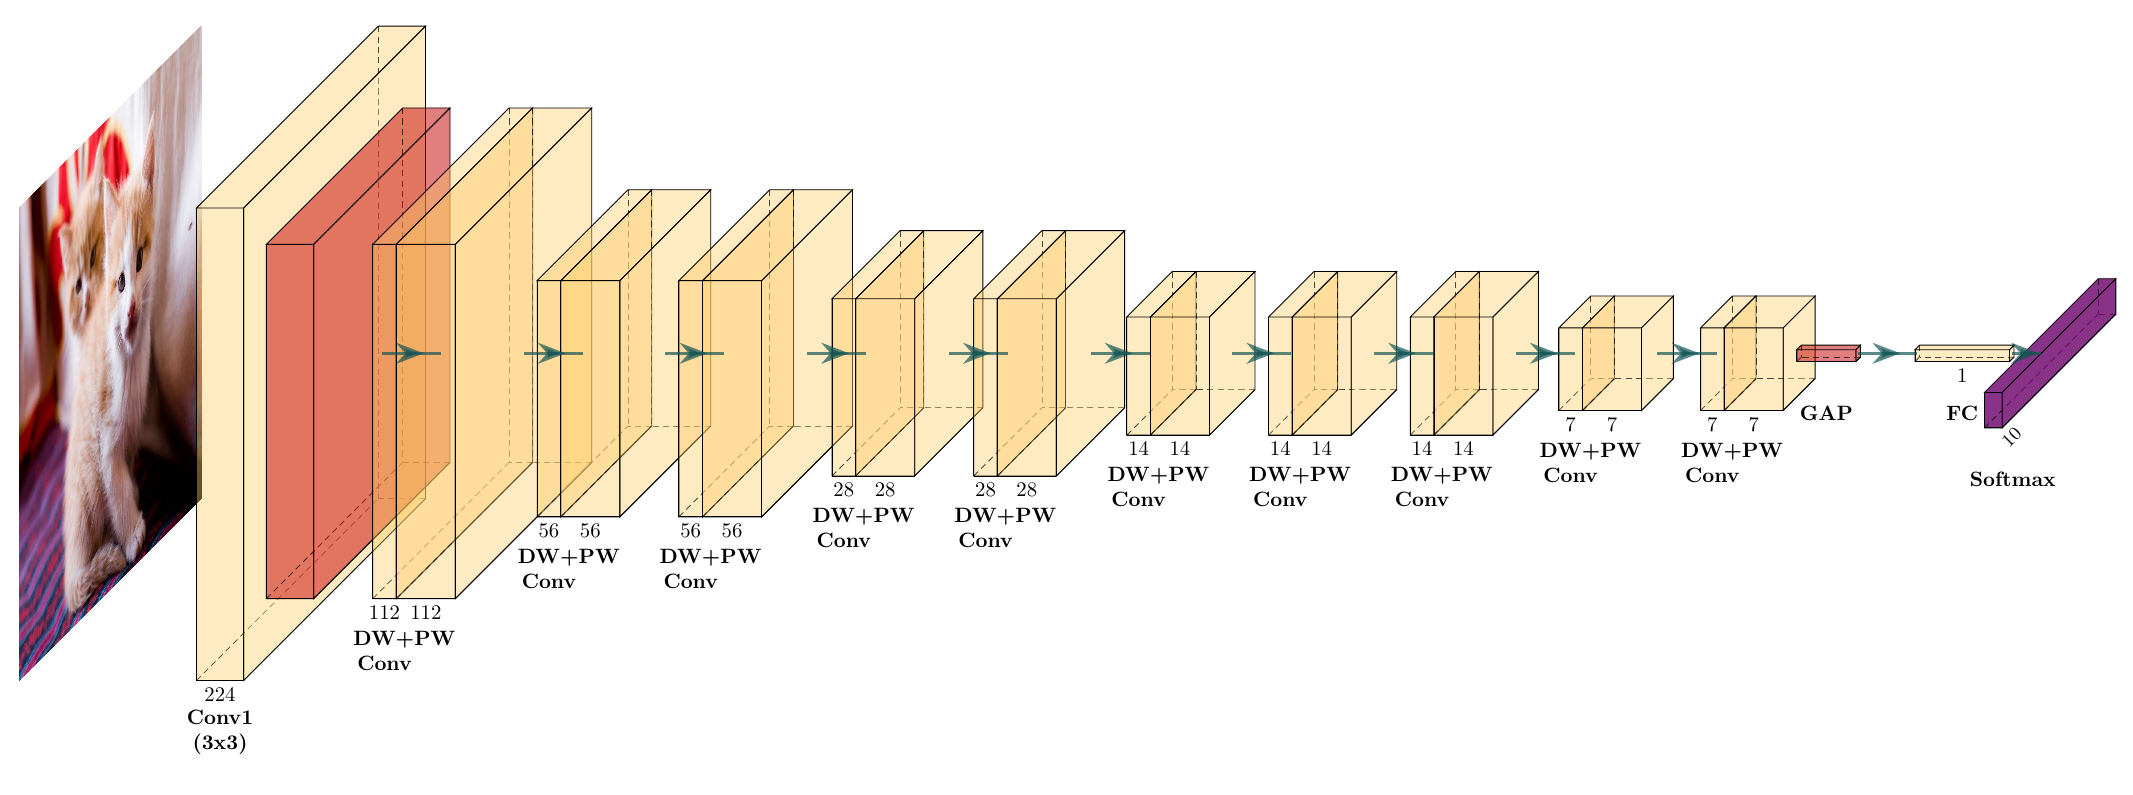
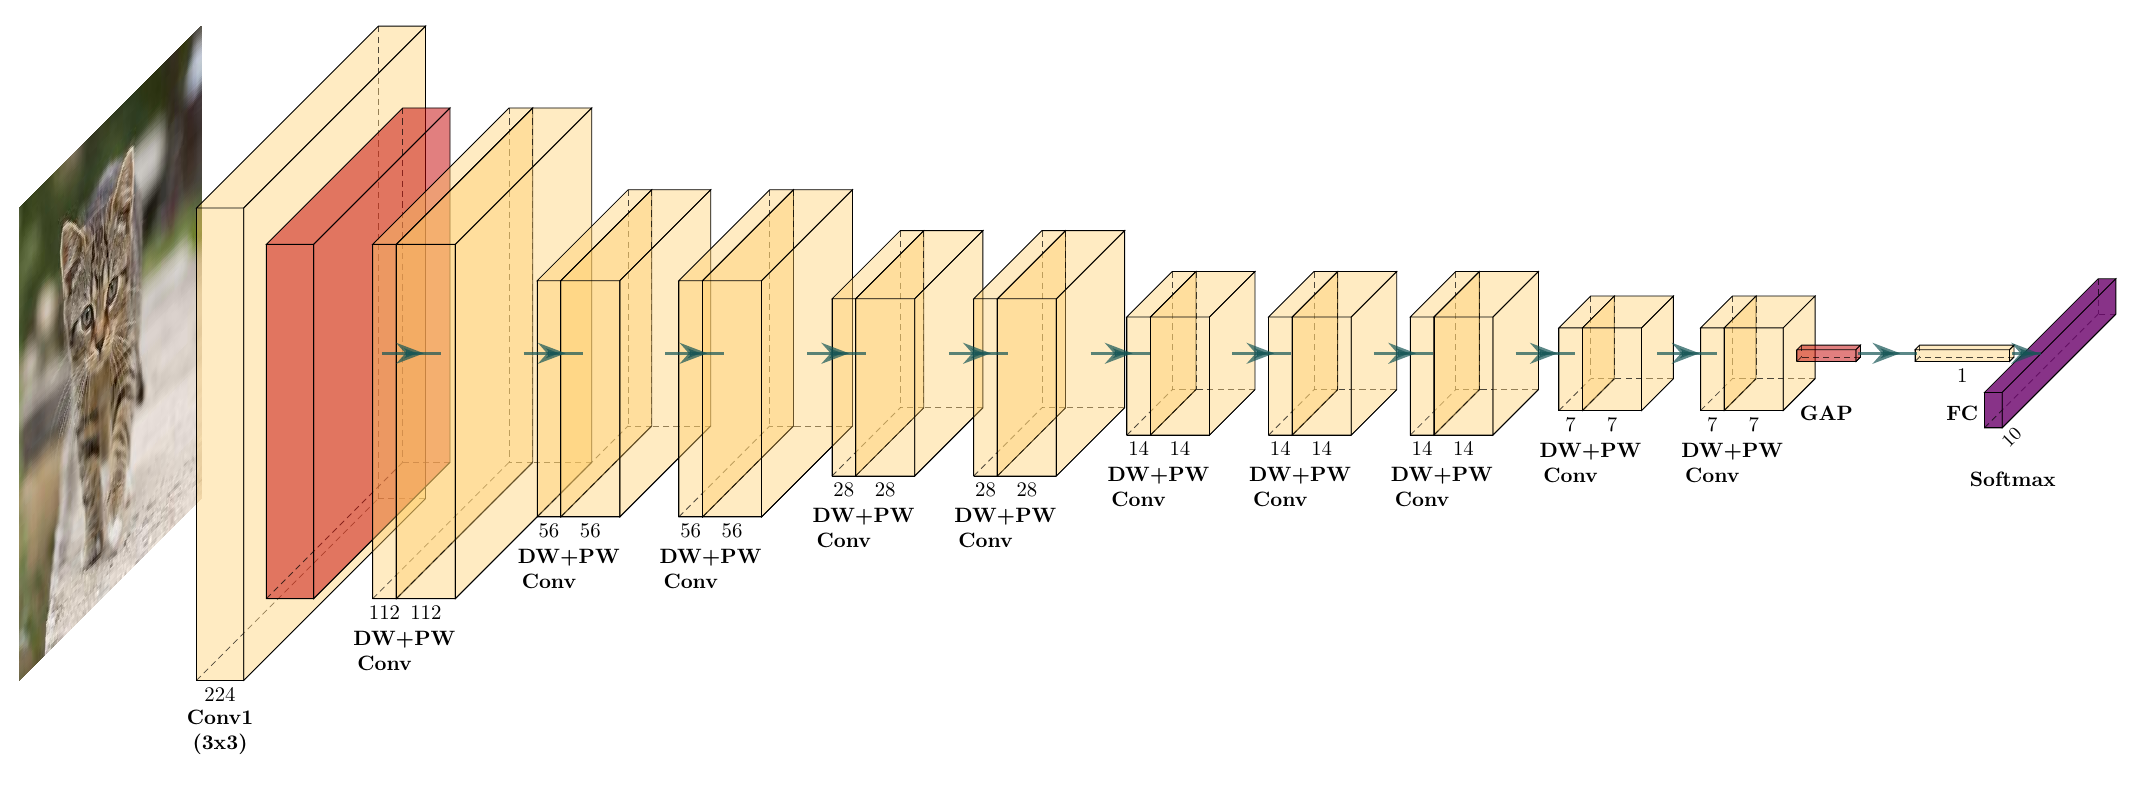
Change Mobilenet input image

Changed region(s): [[0.0, 0.0302, 0.0928, 0.8453]]

diff --git a/pyexamples/mobilenet.py b/pyexamples/mobilenet.py
@@ -8,7 +8,7 @@ arch = [
     to_begin(),
     
     # Input image
-    to_input('../examples/fcn8s/cats.jpg'),
+    to_input('../examples/Mobilenet/kitten_224x224.jpg'),
     
     # Initial Conv Layer
     to_Conv("conv1", 224, 224, offset="(0,0,0)", to="(0,0,0)", height=40, depth=40, width=4, caption="Conv1 (3x3)" ),
